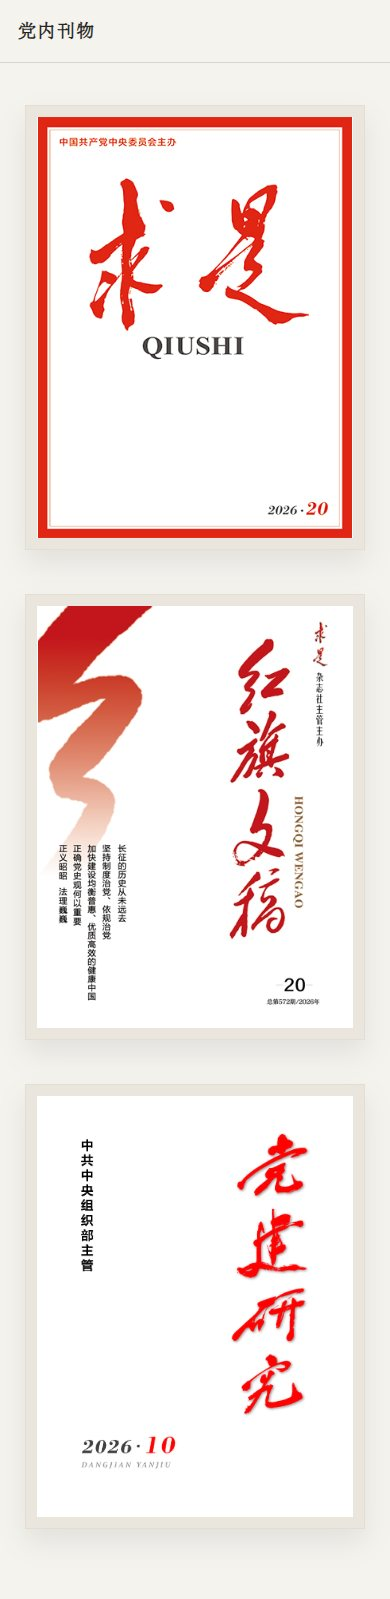
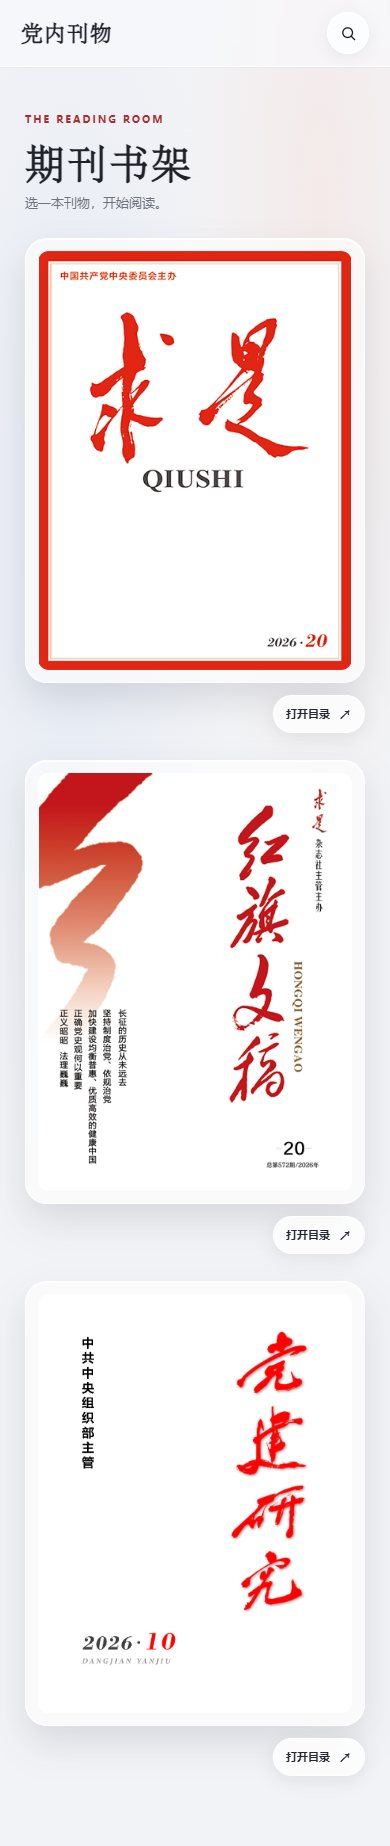
Add iOS-inspired reading demo search

Changed region(s): [[0.0615, 0.0613, 0.9538, 0.9806], [0.0308, 0.0, 0.2769, 0.0306]]

diff --git a/design-demo/index.html b/design-demo/index.html
@@ -88,26 +88,123 @@
       .reader-panel { right:13px; bottom:74px; }
     }
     @media (prefers-reduced-motion:reduce) { html { scroll-behavior:auto; } .cover-frame { transition:none; } }
+    /* iOS-inspired material belongs to controls; publication content stays opaque. */
+    :root { --paper:#f2f3f6; --surface:#ffffff; --ink:#20222a; --muted:#6e7380; --faint:#a0a5af; --line:rgba(38,44,55,.11); --accent:#a62e32; --glass:rgba(255,255,255,.72); }
+    body { background:radial-gradient(ellipse 42% 35% at 18% 29%,rgba(224,231,244,.7),transparent 100%),radial-gradient(ellipse 35% 35% at 82% 12%,rgba(246,225,220,.5),transparent 100%),var(--paper); }
+    .site-header { position:relative; z-index:25; border-bottom:1px solid rgba(255,255,255,.75); background:rgba(248,249,252,.7); -webkit-backdrop-filter:blur(24px) saturate(150%); backdrop-filter:blur(24px) saturate(150%); box-shadow:0 1px 0 rgba(40,45,60,.04); }
+    .site-header-inner { min-height:78px; }
+    .brand { font-size:22px; letter-spacing:.04em; }
+    .search-trigger { display:flex; align-items:center; justify-content:center; gap:9px; min-width:95px; min-height:40px; padding:0 15px; border:1px solid rgba(255,255,255,.9); border-radius:999px; background:var(--glass); color:var(--ink); box-shadow:0 4px 16px rgba(37,43,58,.08),inset 0 1px 0 #fff; font-size:13px; font-weight:600; -webkit-backdrop-filter:blur(18px); backdrop-filter:blur(18px); }
+    .search-trigger:hover,.close-search:hover { background:#fff; box-shadow:0 7px 22px rgba(37,43,58,.13); }
+    .search-trigger svg,.search-field svg { width:17px; height:17px; fill:none; stroke:currentColor; stroke-width:1.9; stroke-linecap:round; }
+    .home { padding:61px 34px 92px; }
+    .home-lead { max-width:1030px; margin:0 auto 39px; }
+    .section-kicker { color:var(--accent); font-size:10px; font-weight:700; letter-spacing:.2em; }
+    .home-lead h1 { margin:13px 0 7px; font-family:var(--serif); font-size:clamp(39px,4vw,57px); font-weight:600; line-height:1.2; letter-spacing:.05em; }
+    .home-lead p { margin:0; color:var(--muted); font-size:13px; }
+    .shelf { gap:clamp(20px,3vw,41px); max-width:1030px; }
+    .shelf button { position:relative; border-radius:24px; }
+    .cover-frame { padding:12px; border:1px solid rgba(255,255,255,.92); border-radius:22px; background:rgba(255,255,255,.58); box-shadow:0 17px 35px rgba(42,45,59,.13),inset 0 1px 0 #fff; }
+    .cover-frame img { border-radius:11px; }
+    .shelf button:hover .cover-frame,.shelf button:focus-visible .cover-frame { transform:translateY(-7px); box-shadow:0 25px 44px rgba(42,45,59,.17),inset 0 1px 0 #fff; }
+    .cover-action { display:inline-flex; align-items:center; gap:8px; margin-top:12px; padding:9px 12px; border:1px solid rgba(255,255,255,.8); border-radius:999px; background:rgba(255,255,255,.82); color:#252834; box-shadow:0 4px 18px rgba(25,28,38,.09); font-size:11px; font-weight:650; -webkit-backdrop-filter:blur(16px); backdrop-filter:blur(16px); }
+    .shelf button { text-align:right; }
+    .cover-action span { font-size:14px; }
+    .magazine { padding-top:60px; }
+    .mag-head { display:flex; align-items:end; justify-content:space-between; gap:16px; margin-bottom:31px; }
+    .mag-head h1 { margin-top:11px; font-size:clamp(43px,5vw,66px); }
+    .mag-count { margin-bottom:7px; color:var(--muted); font-size:12px; }
+    .mag-tabs { display:inline-flex; gap:3px; padding:5px; border:1px solid rgba(255,255,255,.95); border-radius:18px; background:rgba(255,255,255,.57); box-shadow:0 5px 20px rgba(37,43,58,.06),inset 0 1px 0 #fff; -webkit-backdrop-filter:blur(18px); backdrop-filter:blur(18px); }
+    .mag-tabs button { min-width:76px; min-height:38px; padding:0 16px; border:0; border-radius:13px; color:var(--muted); }
+    .mag-tabs button.active { background:#fff; color:var(--ink); box-shadow:0 2px 8px rgba(37,43,58,.12); }
+    .issue-layout { grid-template-columns:minmax(220px,315px) minmax(0,1fr); gap:clamp(37px,6vw,78px); padding-top:38px; }
+    .issue-aside img { padding:8px; border:1px solid rgba(255,255,255,.88); border-radius:18px; background:rgba(255,255,255,.52); box-shadow:0 17px 35px rgba(42,45,59,.12); }
+    .issue-main { align-self:start; padding:26px 29px 20px; border:1px solid rgba(255,255,255,.85); border-radius:25px; background:rgba(255,255,255,.66); box-shadow:0 15px 40px rgba(39,45,59,.07),inset 0 1px 0 #fff; }
+    .issue-topline { padding-bottom:13px; border-bottom:1px solid var(--line); }
+    .issue-topline h2 { font-size:27px; }
+    .issue-row { grid-template-columns:32px minmax(0,1fr) 20px; align-items:center; min-height:67px; padding:12px 0; }
+    .issue-row:last-child { border-bottom:0; }
+    .issue-row strong { font-size:18px; }
+    .issue-row .arrow { font-size:17px; }
+    .reading { background:#fffdf9; }
+    .reading-head { max-width:920px; padding-top:55px; }
+    .reading-head .crumb { margin-bottom:37px; }
+    .reading-head .crumb button { padding:8px 13px; border:1px solid #e7e4de; border-radius:999px; background:#f5f2ed; color:#5f5d58; }
+    .reading-head .crumb button:hover { background:#ebe6de; }
+    .reader-dock { right:50%; bottom:18px; left:auto; width:min(460px,calc(100% - 28px)); min-height:56px; padding:5px; border:1px solid rgba(255,255,255,.88); border-radius:20px; background:rgba(250,249,247,.77); box-shadow:0 9px 32px rgba(32,35,45,.14),inset 0 1px 0 #fff; transform:translateX(50%); -webkit-backdrop-filter:blur(22px) saturate(145%); backdrop-filter:blur(22px) saturate(145%); }
+    .reader-dock button { width:33.333%; min-height:44px; border-radius:15px; font-size:13px; }
+    .reader-dock button:hover,.reader-dock button.active { background:rgba(255,255,255,.85); }
+    .reader-panel { right:max(20px,calc((100vw - 460px)/2)); bottom:91px; border:1px solid rgba(255,255,255,.9); border-radius:21px; background:rgba(255,255,255,.9); box-shadow:0 14px 45px rgba(30,34,45,.15); -webkit-backdrop-filter:blur(22px); backdrop-filter:blur(22px); }
+    .reading.warm .reader-dock,.reading.warm .reader-panel { background:rgba(244,237,223,.91); }
+    .search-backdrop { position:fixed; inset:0; z-index:39; background:rgba(26,31,42,.3); -webkit-backdrop-filter:blur(6px); backdrop-filter:blur(6px); }
+    .search-sheet { position:fixed; top:min(13vh,110px); right:50%; z-index:40; width:min(660px,calc(100vw - 28px)); max-height:min(76vh,740px); display:flex; flex-direction:column; overflow:hidden; padding:25px; border:1px solid rgba(255,255,255,.95); border-radius:28px; background:rgba(250,251,253,.95); box-shadow:0 30px 90px rgba(14,22,40,.27),inset 0 1px 0 #fff; transform:translateX(50%); -webkit-backdrop-filter:blur(30px) saturate(145%); backdrop-filter:blur(30px) saturate(145%); }
+    .search-sheet-head { display:flex; align-items:start; justify-content:space-between; gap:20px; margin-bottom:22px; }
+    .search-sheet-head h2 { margin:7px 0 0; font-family:var(--serif); font-size:30px; font-weight:600; }
+    .close-search { width:36px; height:36px; border:1px solid #fff; border-radius:50%; background:#f2f3f6; color:var(--muted); font-size:24px; line-height:1; }
+    .search-field { display:flex; align-items:center; gap:11px; min-height:52px; padding:0 15px; border:1px solid #dfe2e9; border-radius:15px; background:#fff; color:#777f8e; box-shadow:0 2px 7px rgba(26,34,50,.04); }
+    .search-field:focus-within { border-color:#8694aa; box-shadow:0 0 0 3px rgba(98,119,151,.15); }
+    .search-field svg { flex:none; width:19px; height:19px; }
+    .search-field input { flex:1; min-width:0; border:0; outline:0; background:none; color:var(--ink); font:inherit; font-size:15px; }
+    .search-field input::placeholder { color:#9ca3ae; }
+    .search-shortcut { color:#a2a7b0; font-size:11px; }
+    .search-filters { display:flex; gap:7px; overflow-x:auto; margin:18px 0 21px; padding-bottom:2px; }
+    .search-filters button { flex:none; min-height:34px; padding:0 13px; border:1px solid #e4e6eb; border-radius:999px; background:#fff; color:var(--muted); font-size:12px; }
+    .search-filters button.selected { border-color:#333945; background:#333945; color:#fff; }
+    .search-result-head { margin-bottom:9px; color:var(--muted); font-size:12px; }
+    .search-results { min-height:70px; overflow-y:auto; padding-right:4px; }
+    .search-result { display:flex; align-items:center; justify-content:space-between; gap:16px; width:100%; min-height:66px; padding:11px 5px; border:0; border-bottom:1px solid var(--line); background:none; color:var(--ink); text-align:left; }
+    .search-result:hover { color:var(--accent); }
+    .search-result strong { display:block; font-family:var(--serif); font-size:17px; font-weight:600; }
+    .search-result small { display:block; margin-top:5px; color:var(--muted); font-size:11px; }
+    .search-result > span:last-child { color:var(--faint); font-size:19px; }
+    .search-empty { padding:26px 8px; color:var(--muted); font-size:13px; }
+    .search-footnote { margin:17px 0 0; color:#9aa0aa; font-size:11px; }
+    body.search-open { overflow:hidden; }
+    @media (max-width:780px) {
+      .site-header-inner { min-height:66px; padding:0 21px; }
+      .search-trigger { min-width:42px; width:42px; height:42px; padding:0; }
+      .search-trigger span { display:none; }
+      .home { padding:40px 19px 70px; }
+      .home-lead { max-width:340px; margin-bottom:27px; }
+      .home-lead h1 { font-size:40px; }
+      .shelf { gap:27px; }
+      .magazine { padding:39px 19px 75px; }
+      .mag-head { margin-bottom:25px; }
+      .mag-head h1 { font-size:48px; }
+      .mag-count { display:none; }
+      .issue-layout { grid-template-columns:1fr; padding-top:27px; }
+      .issue-main { padding:21px 18px 12px; border-radius:21px; }
+      .issue-topline h2 { font-size:23px; }
+      .issue-row strong { font-size:16px; }
+      .reader-dock { bottom:max(11px,env(safe-area-inset-bottom)); }
+      .reader-panel { right:14px; bottom:82px; }
+      .search-sheet { top:auto; right:0; bottom:0; width:100%; max-height:90dvh; padding:24px 18px max(23px,env(safe-area-inset-bottom)); border-radius:26px 26px 0 0; transform:none; }
+      .search-sheet-head h2 { font-size:25px; }
+    }
+    @media (prefers-reduced-transparency:reduce) { .site-header,.search-trigger,.mag-tabs,.reader-dock,.reader-panel,.search-sheet { background:#fff; -webkit-backdrop-filter:none; backdrop-filter:none; } }
+    @media (prefers-reduced-motion:reduce) { .cover-frame { transition:none; } }
   </style>
 </head>
 <body>
   <header class="site-header">
     <div class="site-header-inner">
       <button class="brand" type="button" data-view="home" aria-label="返回网站首页">党内刊物</button>
+      <button class="search-trigger" id="searchTrigger" type="button" aria-label="搜索刊物与文章" aria-haspopup="dialog"><svg viewBox="0 0 24 24" aria-hidden="true"><circle cx="10.8" cy="10.8" r="6.8"></circle><path d="m16 16 4.5 4.5"></path></svg><span>搜索</span></button>
     </div>
   </header>
   <main>
     <section class="view home" id="homeView" aria-label="首页预览">
+      <div class="home-lead"><span class="section-kicker">THE READING ROOM</span><h1>期刊书架</h1><p>选一本刊物，开始阅读。</p></div>
       <div class="shelf">
-        <button type="button" data-mag="qs" aria-label="浏览求是"><span class="cover-frame"><img src="../assets/img/cover_qs.jpg" alt="求是刊物封面"></span></button>
-        <button type="button" data-mag="hqwg" aria-label="浏览红旗文稿"><span class="cover-frame"><img src="../assets/img/cover_hqwg.jpg" alt="红旗文稿刊物封面"></span></button>
-        <button type="button" data-mag="djyj" aria-label="浏览党建研究"><span class="cover-frame"><img src="../assets/img/cover_djyj.jpg" alt="党建研究刊物封面"></span></button>
+        <button type="button" data-mag="qs" aria-label="浏览求是"><span class="cover-frame"><img src="../assets/img/cover_qs.jpg" alt="求是刊物封面"></span><span class="cover-action" aria-hidden="true">打开目录 <span>↗</span></span></button>
+        <button type="button" data-mag="hqwg" aria-label="浏览红旗文稿"><span class="cover-frame"><img src="../assets/img/cover_hqwg.jpg" alt="红旗文稿刊物封面"></span><span class="cover-action" aria-hidden="true">打开目录 <span>↗</span></span></button>
+        <button type="button" data-mag="djyj" aria-label="浏览党建研究"><span class="cover-frame"><img src="../assets/img/cover_djyj.jpg" alt="党建研究刊物封面"></span><span class="cover-action" aria-hidden="true">打开目录 <span>↗</span></span></button>
       </div>
     </section>
 
     <section class="view magazine" id="magazineView" aria-label="杂志页预览" hidden>
-      <div class="mag-head"><h1 id="magTitle">求是</h1></div>
-      <div class="mag-tabs"><button type="button" class="active" data-mag-tab="catalog">目录</button><button type="button" data-mag-tab="section">板块</button><button type="button" data-mag-tab="saved">收藏</button></div>
+      <div class="mag-head"><div><span class="section-kicker">JOURNAL</span><h1 id="magTitle">求是</h1></div><span class="mag-count">本期 · 5 篇文章</span></div>
+      <div class="mag-tabs" role="tablist" aria-label="刊物内容"><button type="button" class="active" role="tab" aria-selected="true" data-mag-tab="catalog">目录</button><button type="button" role="tab" aria-selected="false" data-mag-tab="section">板块</button><button type="button" role="tab" aria-selected="false" data-mag-tab="saved">收藏</button></div>
       <div class="issue-layout">
         <aside class="issue-aside"><img id="magCover" src="../assets/img/cover_qs.jpg" alt="求是封面"></aside>
         <div class="issue-main"><div class="issue-topline"><h2 id="issueHeading">2026 年第 20 期</h2></div><div id="issueRows"></div></div>
@@ -133,30 +230,48 @@
     </section>
   </main>
 
+  <div class="search-backdrop" id="searchBackdrop" hidden></div>
+  <section class="search-sheet" id="searchSheet" role="dialog" aria-modal="true" aria-labelledby="searchTitle" hidden>
+    <div class="search-sheet-head"><div><span class="section-kicker">DISCOVER</span><h2 id="searchTitle">搜索刊物与文章</h2></div><button class="close-search" id="searchClose" type="button" aria-label="关闭搜索">×</button></div>
+    <label class="search-field"><svg viewBox="0 0 24 24" aria-hidden="true"><circle cx="10.8" cy="10.8" r="6.8"></circle><path d="m16 16 4.5 4.5"></path></svg><input id="searchInput" type="search" placeholder="输入刊物、期号或文章标题" autocomplete="off"><span class="search-shortcut">Esc</span></label>
+    <div class="search-filters" aria-label="筛选刊物"><button type="button" class="selected" data-search-mag="all">全部</button><button type="button" data-search-mag="qs">求是</button><button type="button" data-search-mag="hqwg">红旗文稿</button><button type="button" data-search-mag="djyj">党建研究</button></div>
+    <div class="search-result-head" id="searchCount" aria-live="polite"></div>
+    <div class="search-results" id="searchResults"></div>
+    <p class="search-footnote">演示搜索仅覆盖此预览中的刊物与示意文章。</p>
+  </section>
+
   <script>
     const magazines = {
       qs: {name:'求是', cover:'../assets/img/cover_qs.jpg', issue:'2026 年第 20 期', rows:['在发展中增进民生福祉','把握高质量发展的实践要求','持续提升基层治理效能','以改革精神推进制度创新','推动文化建设迈出新步伐']},
       hqwg: {name:'红旗文稿', cover:'../assets/img/cover_hqwg.jpg', issue:'2026 年第 20 期', rows:['深刻把握新时代的新使命','以实际行动推动高质量发展','把调查研究做深做实','凝聚团结奋斗的力量','在实践中提高工作本领']},
       djyj: {name:'党建研究', cover:'../assets/img/cover_djyj.jpg', issue:'2026 年第 10 期', rows:['不断提高党的建设质量','把基层党组织建设得更加坚强有力','以严实作风抓好工作落实','建设忠诚干净担当的干部队伍','推动党建与业务深度融合']}
     };
-    let activeMag='qs', articleIndex=0, activeTab='catalog', fontSize=20;
+    let activeMag='qs', articleIndex=0, activeTab='catalog', fontSize=20, searchMag='all';
     const $=id=>document.getElementById(id);
     function closePanels(){ $('tocPanel').hidden=true; $('settingsPanel').hidden=true; for(const id of ['tocToggle','settingsToggle']) {$(id).classList.remove('active');$(id).setAttribute('aria-expanded','false');} }
     function showView(view){ for(const [name,id] of [['home','homeView'],['magazine','magazineView'],['reading','readingView']]) $(id).hidden=name!==view; closePanels(); window.scrollTo(0,0); }
-    function setMagazine(key){ activeMag=key; articleIndex=0; activeTab='catalog'; document.querySelectorAll('[data-mag-tab]').forEach(b=>b.classList.toggle('active',b.dataset.magTab==='catalog')); const m=magazines[key]; $('magTitle').textContent=m.name; $('magCover').src=m.cover; $('magCover').alt=m.name+'封面'; renderRows(); renderToc(); showView('magazine'); }
+    function setMagazine(key){ activeMag=key; articleIndex=0; activeTab='catalog'; document.querySelectorAll('[data-mag-tab]').forEach(b=>{const selected=b.dataset.magTab==='catalog';b.classList.toggle('active',selected);b.setAttribute('aria-selected',String(selected));}); const m=magazines[key]; $('magTitle').textContent=m.name; $('magCover').src=m.cover; $('magCover').alt=m.name+'封面'; renderRows(); renderToc(); showView('magazine'); }
     function renderRows(){ const m=magazines[activeMag]; const choices=activeTab==='catalog'?[0,1,2,3,4]:activeTab==='section'?[0,2,4]:[1,3]; $('issueHeading').textContent=activeTab==='catalog'?m.issue:activeTab==='section'?'板块':'我的收藏'; $('issueRows').replaceChildren(); choices.forEach(i=>{const title=m.rows[i];const b=document.createElement('button'); b.type='button';b.className='issue-row';b.innerHTML='<span class="num">'+String(i+1).padStart(2,'0')+'</span><strong></strong><span class="arrow">↗</span>';b.querySelector('strong').textContent=title;b.addEventListener('click',()=>openArticle(i));$('issueRows').append(b);}); }
     function renderToc(){ $('tocRows').replaceChildren(); magazines[activeMag].rows.forEach((title,i)=>{const b=document.createElement('button');b.type='button';b.className='panel-row';b.textContent=String(i+1).padStart(2,'0')+'　'+title;b.addEventListener('click',()=>openArticle(i));$('tocRows').append(b);}); }
     function openArticle(i){ articleIndex=i;const m=magazines[activeMag];$('articleTitle').textContent=m.rows[i];$('readingBack').textContent='← '+m.name+' · '+m.issue;showView('reading'); }
+    function openSearch(){ $('searchSheet').hidden=false; $('searchBackdrop').hidden=false; $('searchTrigger').setAttribute('aria-expanded','true'); document.body.classList.add('search-open'); renderSearch(); requestAnimationFrame(()=>$('searchInput').focus()); }
+    function closeSearch(restoreFocus=true){ $('searchSheet').hidden=true; $('searchBackdrop').hidden=true; $('searchTrigger').setAttribute('aria-expanded','false'); document.body.classList.remove('search-open'); if(restoreFocus)$('searchTrigger').focus(); }
+    function renderSearch(){ const query=$('searchInput').value.trim().normalize('NFKC').toLocaleLowerCase('zh-CN').replace(/\s+/g,''); const results=[]; for(const [key,m] of Object.entries(magazines)){if(searchMag!=='all'&&searchMag!==key)continue;const matches=value=>value.normalize('NFKC').toLocaleLowerCase('zh-CN').replace(/\s+/g,'').includes(query);if(matches(m.name+' '+m.issue))results.push({key,type:'magazine',title:m.name,detail:m.issue});m.rows.forEach((title,index)=>{if(matches(title+' '+m.name+' '+m.issue))results.push({key,index,type:'article',title,detail:m.name+' · '+m.issue});});} $('searchCount').textContent=query?`找到 ${results.length} 项结果`:'浏览全部刊物与文章'; $('searchResults').replaceChildren(); if(!results.length){const p=document.createElement('p');p.className='search-empty';p.textContent='没有找到相关内容，试试其他关键词。';$('searchResults').append(p);return;} for(const item of results){const b=document.createElement('button');b.type='button';b.className='search-result';const info=document.createElement('span');const strong=document.createElement('strong');strong.textContent=item.title;const small=document.createElement('small');small.textContent=(item.type==='magazine'?'刊物 · ':'文章 · ')+item.detail;info.append(strong,small);const arrow=document.createElement('span');arrow.textContent='↗';arrow.setAttribute('aria-hidden','true');b.append(info,arrow);b.addEventListener('click',()=>{closeSearch(false);setMagazine(item.key);if(item.type==='article')openArticle(item.index);});$('searchResults').append(b);} }
     document.querySelectorAll('[data-view]').forEach(b=>b.addEventListener('click',()=>showView(b.dataset.view)));
     document.querySelectorAll('[data-mag]').forEach(b=>b.addEventListener('click',()=>setMagazine(b.dataset.mag)));
-    document.querySelectorAll('[data-mag-tab]').forEach(b=>b.addEventListener('click',()=>{activeTab=b.dataset.magTab;document.querySelectorAll('[data-mag-tab]').forEach(x=>x.classList.toggle('active',x===b));renderRows();}));
+    document.querySelectorAll('[data-mag-tab]').forEach(b=>b.addEventListener('click',()=>{activeTab=b.dataset.magTab;document.querySelectorAll('[data-mag-tab]').forEach(x=>{const selected=x===b;x.classList.toggle('active',selected);x.setAttribute('aria-selected',String(selected));});renderRows();}));
+    $('searchTrigger').addEventListener('click',openSearch);
+    $('searchClose').addEventListener('click',()=>closeSearch());
+    $('searchBackdrop').addEventListener('click',()=>closeSearch());
+    $('searchInput').addEventListener('input',renderSearch);
+    document.querySelectorAll('[data-search-mag]').forEach(b=>b.addEventListener('click',()=>{searchMag=b.dataset.searchMag;document.querySelectorAll('[data-search-mag]').forEach(x=>x.classList.toggle('selected',x===b));renderSearch();}));
     $('tocToggle').addEventListener('click',()=>{const open=$('tocPanel').hidden;closePanels();$('tocPanel').hidden=!open;$('tocToggle').classList.toggle('active',open);$('tocToggle').setAttribute('aria-expanded',String(open));});
     $('settingsToggle').addEventListener('click',()=>{const open=$('settingsPanel').hidden;closePanels();$('settingsPanel').hidden=!open;$('settingsToggle').classList.toggle('active',open);$('settingsToggle').setAttribute('aria-expanded',String(open));});
     $('smaller').addEventListener('click',()=>{$('prose').style.setProperty('--reader-size',(fontSize=Math.max(16,fontSize-2))+'px');});
     $('larger').addEventListener('click',()=>{$('prose').style.setProperty('--reader-size',(fontSize=Math.min(26,fontSize+2))+'px');});
     document.querySelectorAll('[data-paper]').forEach(b=>b.addEventListener('click',()=>{$('readingView').classList.toggle('warm',b.dataset.paper==='warm');document.querySelectorAll('[data-paper]').forEach(x=>x.classList.toggle('current',x===b));}));
     $('nextArticle').addEventListener('click',()=>openArticle((articleIndex+1)%magazines[activeMag].rows.length));
-    document.addEventListener('keydown',e=>{if(e.key==='Escape')closePanels();});
+    document.addEventListener('keydown',e=>{if(e.key==='Escape'){if(!$('searchSheet').hidden)closeSearch();else closePanels();}else if($('searchSheet').hidden&&(e.key==='/'||(e.key.toLowerCase()==='k'&&(e.ctrlKey||e.metaKey)))){e.preventDefault();openSearch();}else if(e.key==='Tab'&&!$('searchSheet').hidden){const focusable=[...$('searchSheet').querySelectorAll('button,input')];const first=focusable[0],last=focusable.at(-1);if(e.shiftKey&&document.activeElement===first){e.preventDefault();last.focus();}else if(!e.shiftKey&&document.activeElement===last){e.preventDefault();first.focus();}}});
     document.addEventListener('click',e=>{if(!$('tocPanel').contains(e.target)&&!$('settingsPanel').contains(e.target)&&!$('tocToggle').contains(e.target)&&!$('settingsToggle').contains(e.target))closePanels();});
     renderRows();
     renderToc();

diff --git a/design-demo/README.md b/design-demo/README.md
@@ -1,8 +1,8 @@
 # 三刊阅读视觉方向预览
 
-这是独立于正式站点的交互示意。打开 `index.html`，点击封面进入杂志目录，再点击文章进入正文；站点名称返回首页，正文出处返回杂志目录。封面使用项目现有图片；文章标题、正文和收藏列表只用于展示排版，并非正式刊物数据。
+这是独立于正式站点的交互示意。打开 `index.html`，点击封面进入杂志目录，再点击文章进入正文；站点名称返回首页，正文出处返回杂志目录。右上角可搜索刊物、期号和此预览中的示意文章标题，支持刊物筛选、`/` 或 `Ctrl/⌘ + K` 打开及 `Esc` 关闭。封面使用项目现有图片；文章标题、正文和收藏列表只用于展示排版，并非正式刊物数据。
 
-桌面预览：[首页](previews/demo-home.jpg) · [杂志页](previews/demo-magazine.jpg) · [正文页](previews/demo-reading.jpg)；手机预览：[首页](previews/demo-mobile-home.jpg) · [正文页](previews/demo-mobile-reading.jpg)。
+桌面预览：[首页](previews/demo-home.jpg) · [杂志页](previews/demo-magazine.jpg) · [搜索](previews/demo-search.jpg) · [正文页](previews/demo-reading.jpg)；手机预览：[首页](previews/demo-mobile-home.jpg) · [搜索](previews/demo-mobile-search.jpg) · [正文页](previews/demo-mobile-reading.jpg)。
 
 ## 调研结论
 
@@ -17,9 +17,11 @@
 | [AstroPaper](https://github.com/satnaing/astro-paper) | 静态搜索、目录、无障碍和阅读页信息组织 | 当前网站已有静态数据与检索，不值得只为换外观重建框架 |
 | [Hugo PaperMod](https://github.com/adityatelange/hugo-PaperMod) | 简洁、快速的博客导航和正文布局 | 对“刊物 → 年份 → 期号 → 文章”的四层结构支持不足 |
 
+本轮视觉参考 [Apple 的 iOS 27 介绍](https://www.apple.com/os/ios/)中强调的 Liquid Glass 清晰度与对比度，以及 [Apple 搜索设计指南](https://developer.apple.com/design/human-interface-guidelines/searching)。网页借鉴轻透控件、圆角层级和易触达搜索，期刊封面与正文保持不透明，以保证阅读清晰。它不是对系统界面的逐像素复制。
+
 ## 建议采用的方向
 
-**当代期刊书架**：首页仅用三本完整封面承担主视觉；杂志页用刊名、期号和连续文章索引形成清楚的层次，桌面保留当期封面，手机直接进入目录；正文页保持单栏阅读，工具收进轻面板。全站使用系统字体与相同的纸色、墨色、细线和小幅暗红点缀。
+**当代期刊书架**：首页用三本完整封面承担主视觉，搜索收在右上角；杂志页用刊名、期号和连续文章索引形成清楚的层次，桌面保留当期封面，手机直接进入目录；正文页保持单栏阅读，工具收进轻面板。全站使用系统字体，搜索、分段切换和阅读控件采用轻透材质，刊物与正文保持稳定、清楚的底色。
 
 优先改变布局秩序和间距，不增加装饰。尤其要控制正文行宽、封面比例与目录密度。正式实现时沿用现有数据、搜索、收藏、离线与 GitHub/Cloudflare Pages 部署结构，逐页替换样式和必要交互即可。
 
@@ -28,6 +30,7 @@
 - 首页封面进入对应刊物，目录文章进入正文；顶部没有独立的“正文”导航入口。
 - 杂志页可切换目录、板块和收藏示意列表，文章行可进入阅读页。
 - 阅读页可切换目录、字号和纸张底色，并可进入下一篇示意文章。
+- 搜索可按刊物名、期号和文章标题即时匹配，按刊物筛选，点击结果进入刊物或文章；仅覆盖此预览中的示意数据。
 - 手机与桌面使用同一份 HTML/CSS；无框架、无远程字体或运行时依赖。
 
 本预览用于确认视觉方向。它没有接入正式站点的真实目录、文章或登录门，不能替代功能验收。

diff --git a/HANDOFF.md b/HANDOFF.md
@@ -1,5 +1,23 @@
 # 交接记录
 
+## 2026-11-01：iOS 27 风格 demo 与搜索恢复
+
+### 当前任务与已完成
+
+用户认为上一版 demo 过于简单，缺少搜索，希望参考 iOS 27。根据 Apple 官方 iOS 27 与搜索设计资料，在 `design-demo/index.html` 中增加轻透搜索控件、带环境色的书架、圆角封面托架、杂志分段切换与浮动阅读操作；封面及正文保持不透明以保证可读。新增右上角搜索弹层，支持刊物名、期号与 15 篇示意文章标题即时匹配、刊物筛选、结果跳转、`/` 或 `Ctrl/⌘ + K` 打开、Esc 关闭。正式站点没有改动。
+
+### 验收与下一步
+
+- Playwright 单次脚本验证“基层”得到 2 项结果，点击进入对应文章，设置面板可用、字号调整为 22px、390px 手机无水平溢出；桌面与手机的首页、杂志、搜索、阅读截图已检查。JS/CSS 语法检查通过。
+- `design-demo/README.md` 已写明 iOS 27 参考与搜索仅覆盖示意数据；预览图更新。交付时提交并推送 GitHub `main`，核对远端提交号。若用户认可再接入正式站点的真实搜索索引与内容。
+
+### 踩过的坑
+
+- 把玻璃效果铺到封面上会遮挡期号，现将“打开目录”操作提示移到封面托架下方；搜索与导航控件才使用半透明材质。
+- Playwright 仍不能直接访问本地 HTTP 或 `file:`；沿用单次 `setContent()` 嵌入现有封面做预览。这个过程只验证独立 demo，不代表正式站点验收。
+
+---
+
 ## 2026-11-01：精简独立 demo 的重复元素与导航
 
 ### 当前任务与已完成
